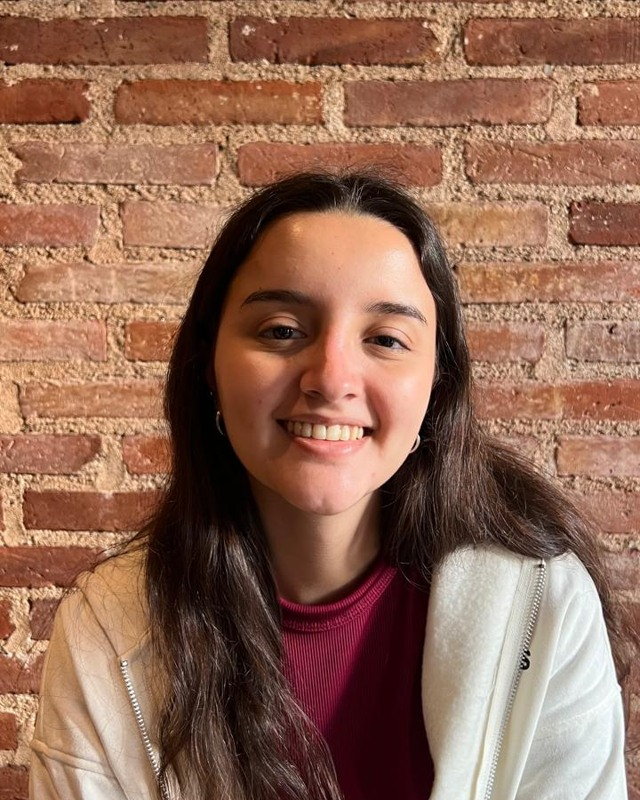
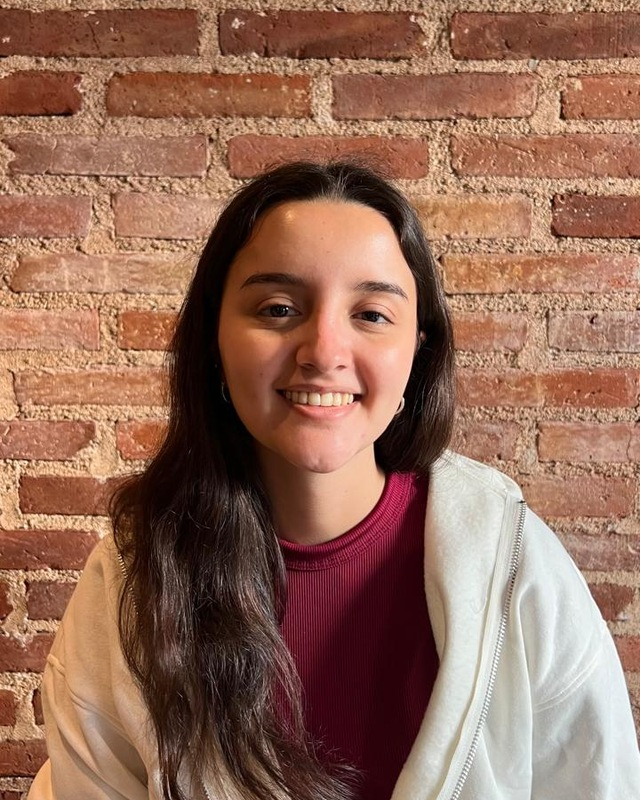
Renueva el retrato del portafolio

diff --git a/index.html b/index.html
@@ -7,7 +7,7 @@
   <meta name="description" content="Agustina Ardiles, estudiante de Ingeniería en Sistemas de Información en UTN FRC. Proyectos de desarrollo de software e inteligencia artificial aplicada.">
   <meta property="og:type" content="website">
   <meta property="og:url" content="https://agusardiles2202.github.io/">
-  <meta property="og:image" content="https://agusardiles2202.github.io/assets/portafolio-presentacion.jpg">
+  <meta property="og:image" content="https://agusardiles2202.github.io/assets/portafolio-presentacion.jpg?v=2">
   <meta property="og:image:type" content="image/jpeg">
   <meta property="og:image:width" content="1200">
   <meta property="og:image:height" content="627">
@@ -48,7 +48,7 @@
       </div>
       <figure class="portrait">
         <div class="portrait-frame">
-          <img src="assets/agustina.jpg?v=2" alt="Retrato de Agustina Ardiles" width="640" height="800" fetchpriority="high">
+          <img src="assets/agustina.jpg?v=3" alt="Retrato de Agustina Ardiles" width="640" height="800" fetchpriority="high">
         </div>
         <figcaption>Córdoba, Argentina</figcaption>
       </figure>
